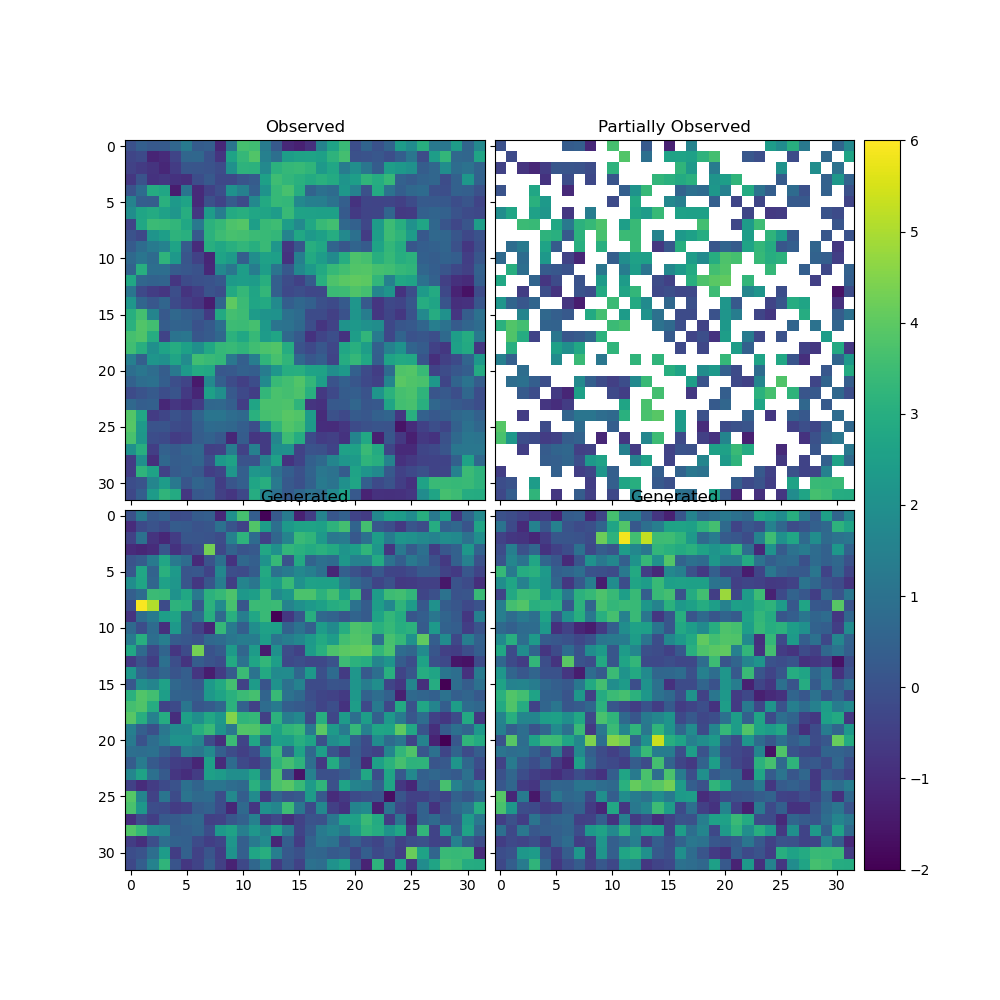
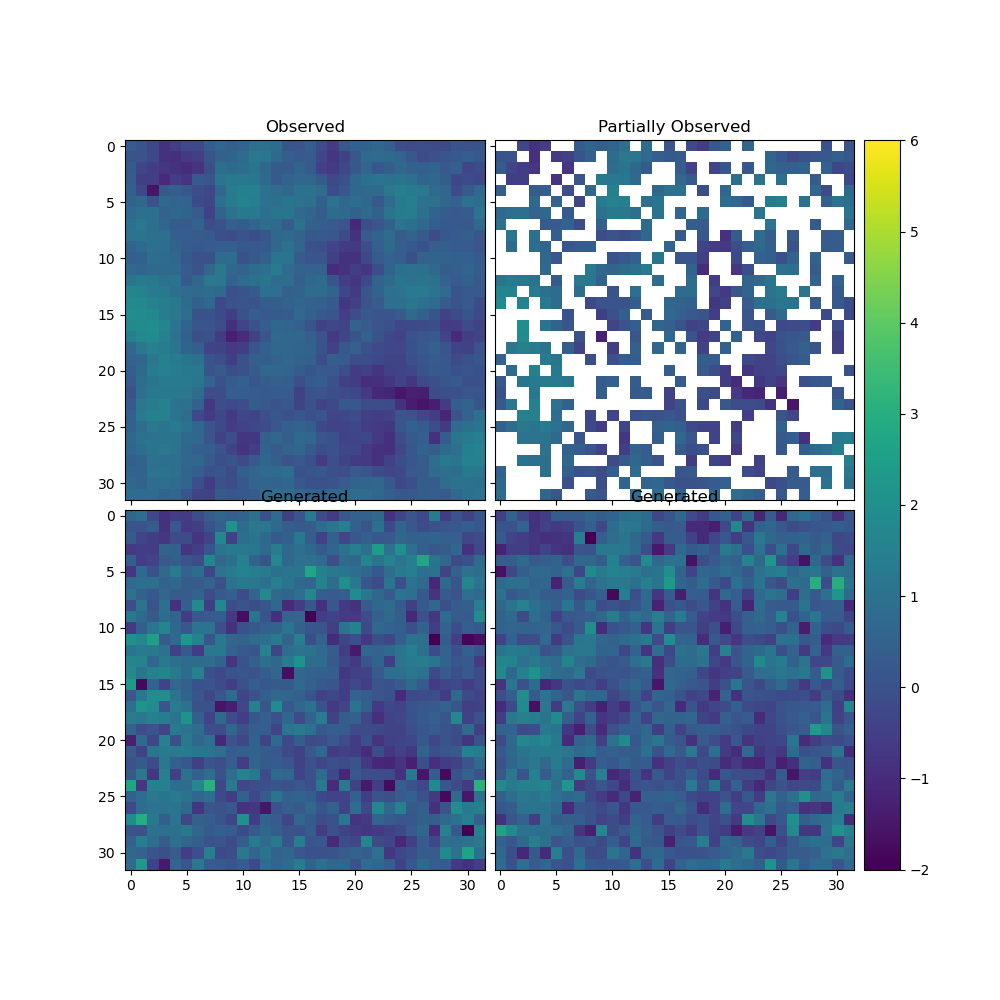
visualizations model 1 schlather

diff --git a/brown_resnick/sde_diffusion/masked/unparameterized_masked_score/evaluation/diffusion_generation/conditional_mask_data_generation.py b/brown_resnick/sde_diffusion/masked/unparameterized_masked_score/evaluation/diffusion_generation/conditional_mask_data_generation.py
@@ -36,9 +36,7 @@ sdevp = sde_lib.VPSDE(beta_min=0.1, beta_max=20, N=1000)
 #mask is a True/False (1,32,32) vector with .5 randomly missing pixels
 #function gen_mask is in image_utils.py, 50 at end of random50 denotes
 #50 percent missing
-n = 32
-range_value = 1.6
-smooth_value = 1.6
+
 
 #y is observed part of field, modified to incorporate the mask as channel
 def p_mean_and_variance_from_score_via_mask(vpsde, score_model, device, masked_xt, mask, y, t):
@@ -114,6 +112,9 @@ def plot_masked_spatial_field(spatial_field, mask, vmin, vmax, figname):
 
 
 """
+n = 32
+range_value = 1.6
+smooth_value = 1.6
 replicates_per_call = 250
 calls = 4
 number_of_replicates = 1
@@ -144,7 +145,9 @@ for i in range(0, 4):
 
 
 
-
+n = 32
+range_value = 3.
+smooth_value = 1.6
 replicates_per_call = 250
 calls = 4
 number_of_replicates = 1

diff --git a/brown_resnick/sde_diffusion/masked/unparameterized_masked_score/evaluation/diffusion_generation/brown_resnick_data_generation.py b/brown_resnick/sde_diffusion/masked/unparameterized_masked_score/evaluation/diffusion_generation/brown_resnick_data_generation.py
@@ -12,7 +12,7 @@ def generate_brown_resnick_process(range_value, smooth_value, seed_value, number
     os.remove("temporary_brown_resnick_samples.npy")
     return images
 
-def generate_brown_resnick_process(range_value, smooth_value, seed_value, number_of_replicates, n):
+def generate_schlather_process(range_value, smooth_value, seed_value, number_of_replicates, n):
 
     subprocess.run(["Rscript", "schlather_data_generation.R", str(range_value),
                     str(smooth_value), str(number_of_replicates), str(seed_value)],
